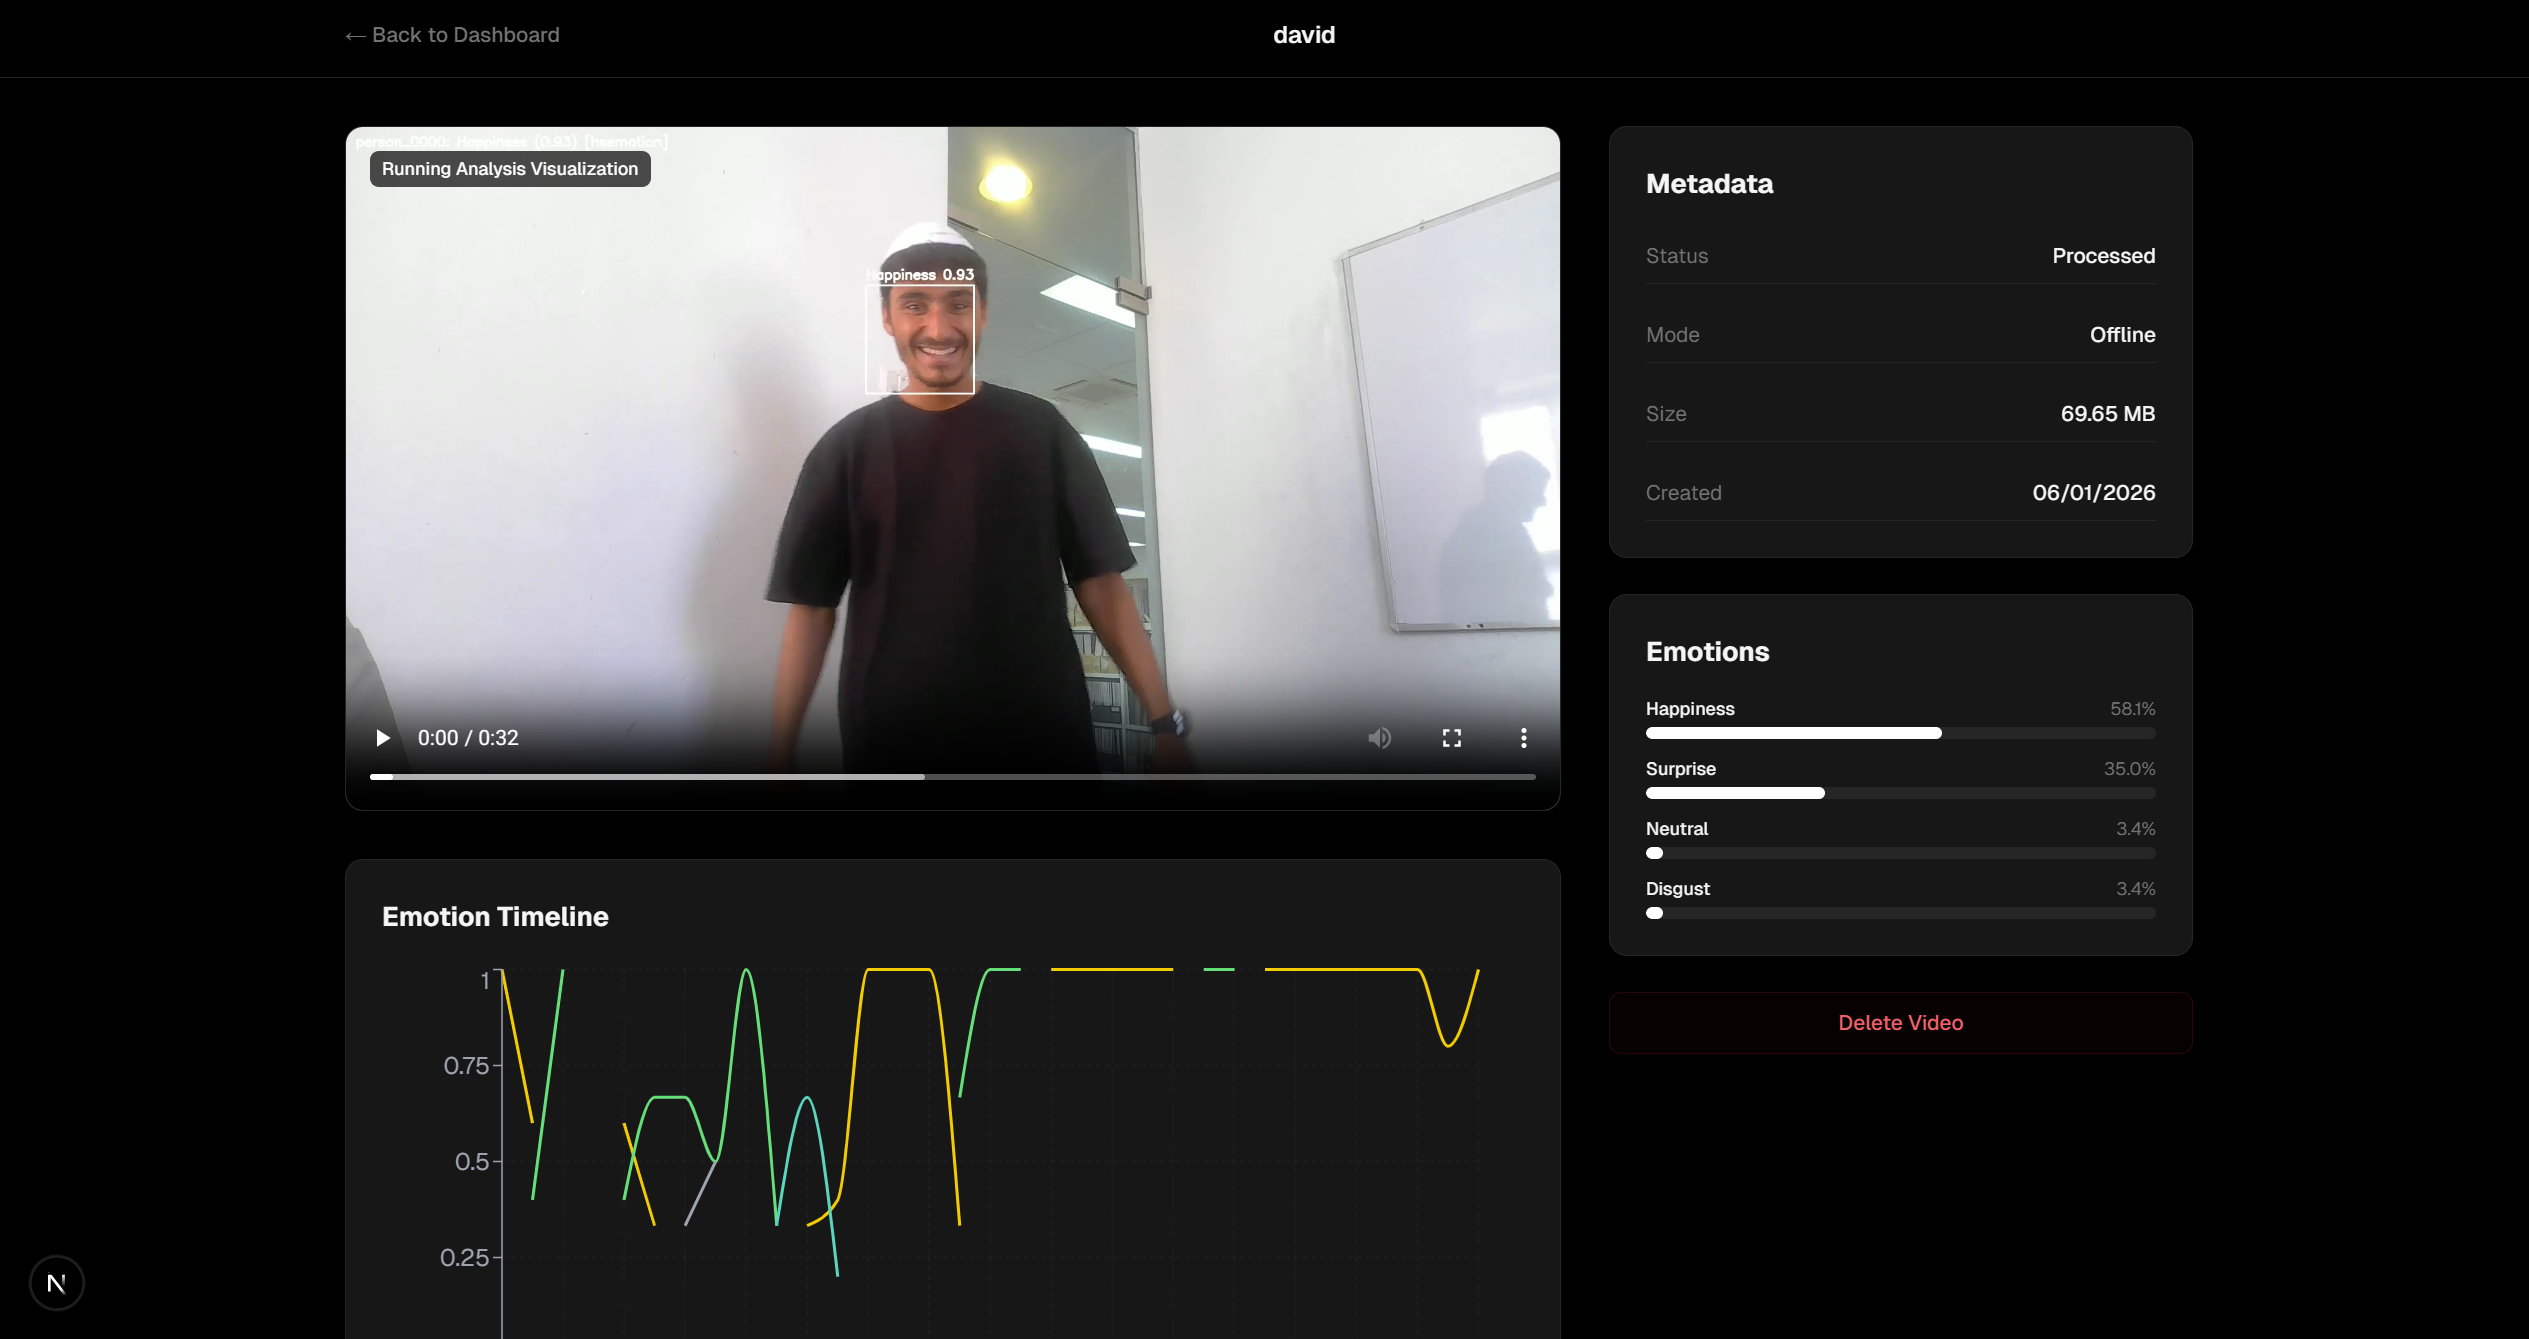
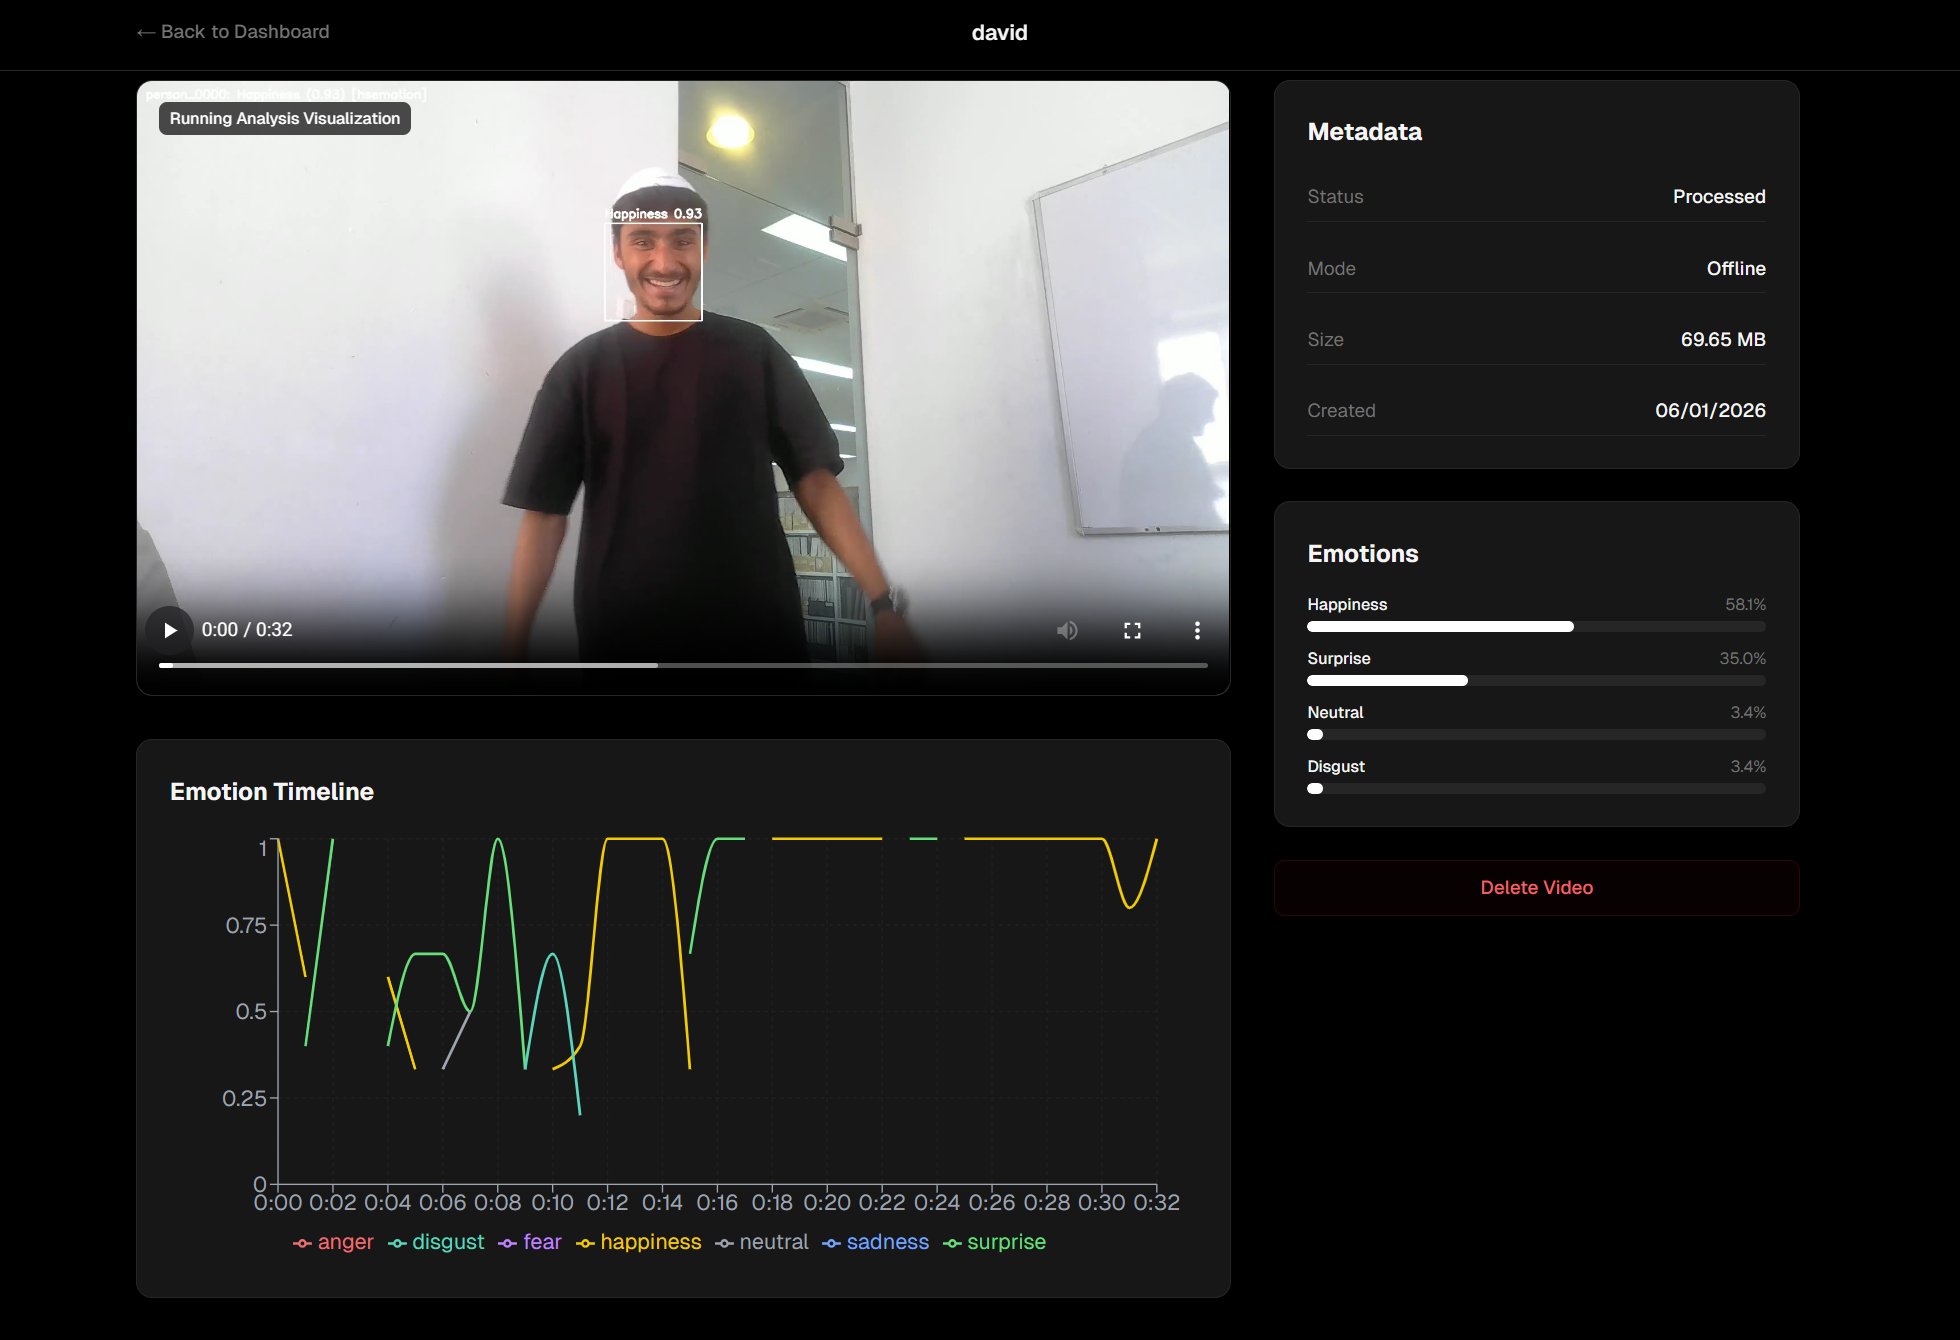
add analytics dashboard into technical_report.md

diff --git a/technical_report.md b/technical_report.md
@@ -14,7 +14,7 @@
 ### Team Members
 * BENSIMON RUBEN 
 * SARFATI ETHAN 
-* ANTIGRAVITY 
+
 
 ### Context and Motivation
 Understanding human emotional responses is critical across various fields, from market research (ad testing) to psychological studies and user experience (UX) evaluation. Traditional methods often rely on subjective self-reporting or manual annotation, which are time-consuming and prone to bias. **VideoEmotion** was developed to bridge this gap by providing an automated, scalable solution for detecting and classifying human emotions in video content using state-of-the-art Computer Vision (CV) and Machine Learning (ML) techniques.
@@ -83,12 +83,22 @@ The system democratizes access to advanced emotion AI, allowing users to obtain 
 The application features a modern, responsive dashboard designed for ease of use.
 
 **Dashboard - Video Inventory**
+
 The main view provides a quick overview of all processed videos, their status, and storage usage.
+
 ![Dashboard Interface](docs/images/dashboard_interface.png)
 
 **Video Analysis Details**
+
 Detailed insights including per-frame emotion detection, timeline graphs, and confidence scores.
+
 ![Video Details Interface](docs/images/video_details_interface.png)
+
+**General Analytics**
+
+This dashboard provides a **global overview of emotion analysis results across all processed videos**.  
+
+![General Analytics Dashboard](docs/images/analytics.png)
 
 ---
 